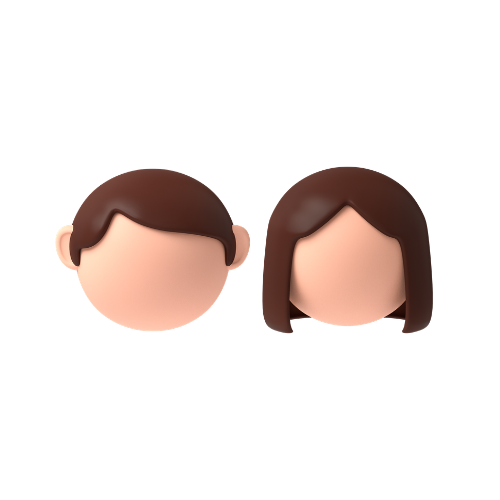
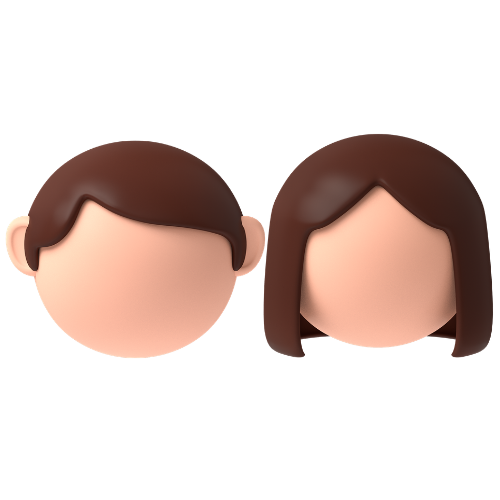
tonny041126-1743

Changed region(s): [[0.0, 0.27, 0.99, 0.72]]

diff --git a/pages/admin/admin_dashboard.php b/pages/admin/admin_dashboard.php
@@ -128,7 +128,7 @@ $activeQueue = $dashboardStats["activeQueue"];
       <article class="card">
         <div class="icon icon--customer-list" aria-hidden="true">
           <img
-            src="<?= project_url('/pages/admin/IMAGES/LANDING_CUSTOMER_LIST.png') ?>"
+            src="<?= project_url('/pages/admin/IMAGES/LANDING_CUSTOMER_LIST.png?v=20260411h4') ?>"
             alt=""
             class="icon-image icon-image--customer-list"
           >
